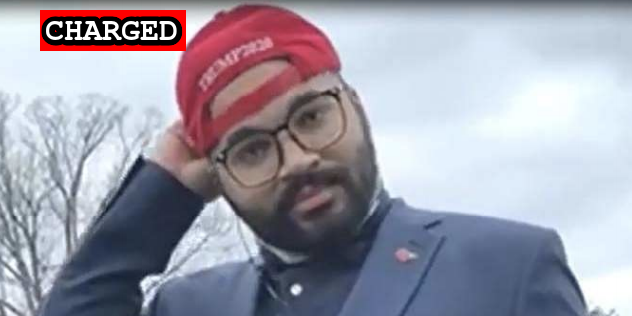
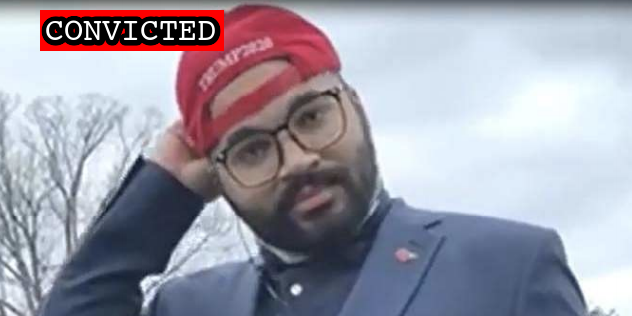
Finley plea deal

Changed region(s): [[0.0601, 0.0285, 0.3608, 0.1709]]

diff --git a/docs/_suspects/jeffery-finley.md b/docs/_suspects/jeffery-finley.md
@@ -4,15 +4,17 @@ lastName: Finley
 hashtag: TheSuitPB
 aka:
 residence: West Virginia
-status: Charged
+status: Convicted
 date: 2021-03-21
 charged: 2021-03-21
 indicted:
-convicted:
+convicted: 2022-04-06
+acquitted:
 sentenced:
 dismissed:
 deceased:
 plea_hearing: 2022-04-06
+trial_date:
 sentencing:
 age:
 occupation:
@@ -34,10 +36,15 @@ published: true
 caseNumber: 1:21-mj-328
 videos:
 charges:
+  - code: 18 USC § 1752(a)(1)
+    title: Entering a restricted building or grounds
+    url: https://www.law.cornell.edu/uscode/text/18/1752
+    felony: false
 sentence:
 ---
 
 - [News Report](https://www.usnews.com/news/best-states/west-virginia/articles/2021-04-06/wva-man-charged-with-entering-us-capitol-during-jan-6-riot)
 - [Complaint](https://www.justice.gov/usao-dc/case-multi-defendant/file/1393631/download)
-- [Statement of Facts](https://www.justice.gov/usao-dc/case-multi-defendant/file/1393871/download)
+- [Statement of Facts](https://www.justice.gov/usao-dc/case-multi-defendant/file/1492396/download)
 - [Information](https://extremism.gwu.edu/sites/g/files/zaxdzs2191/f/Jeffery%20Finley%20Information.pdf)
+- [Plea Agreement](https://www.justice.gov/usao-dc/case-multi-defendant/file/1492371/download)
